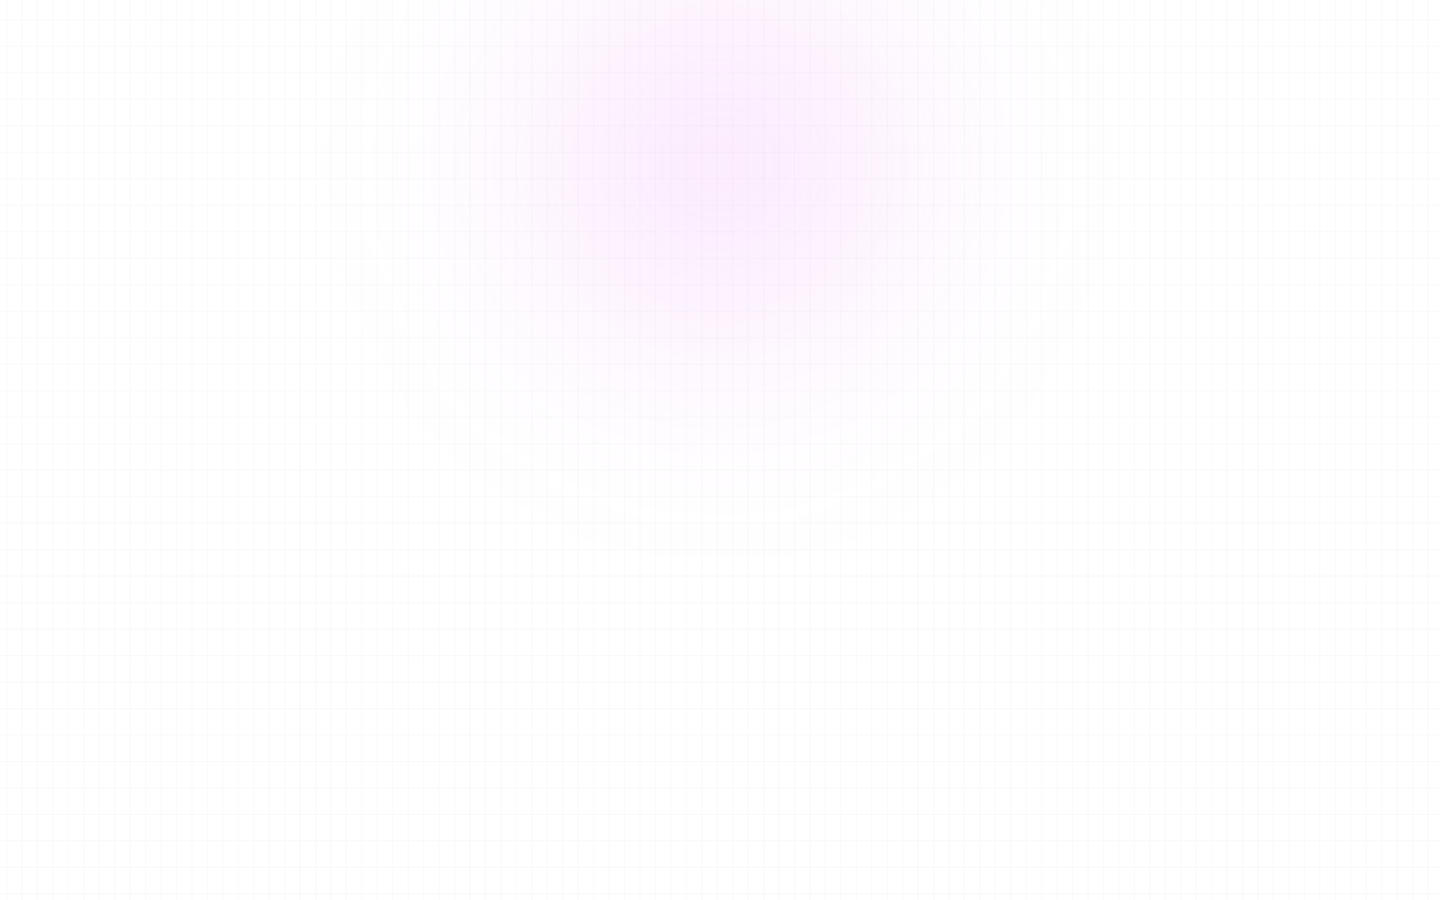
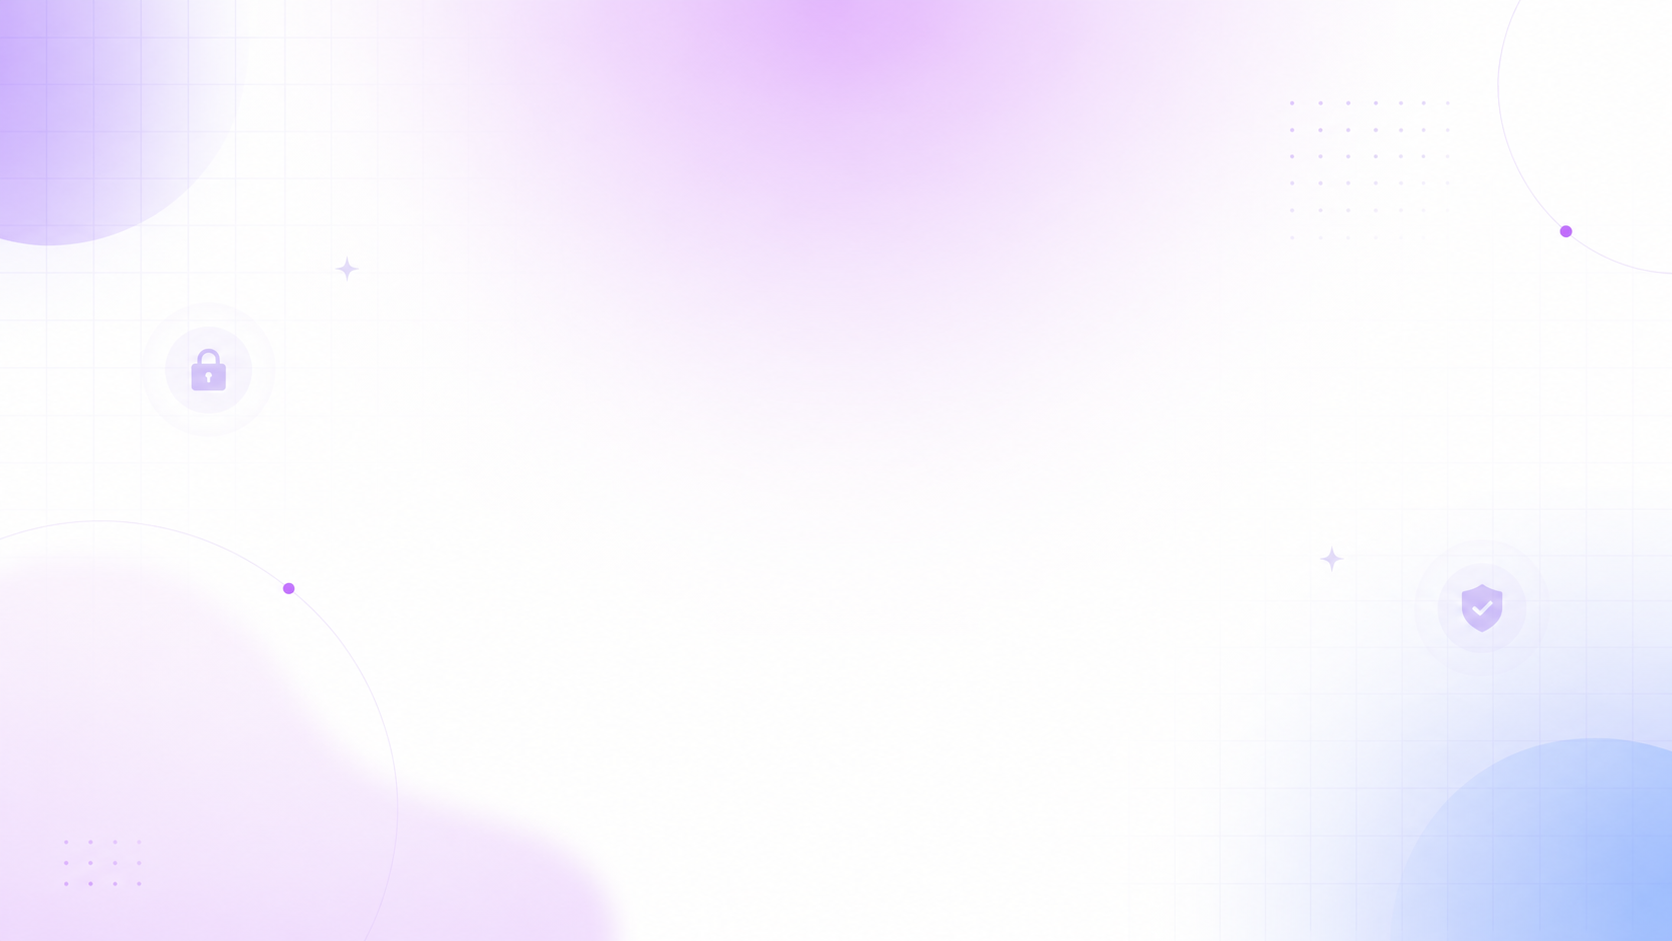
feat: implement login, signup, and home pages

diff --git a/frontend/src/pages/Login.jsx b/frontend/src/pages/Login.jsx
@@ -1,8 +1,67 @@
-import React from 'react'
+import React, { useState } from 'react'
+import { assets } from '../assets/assets';
+import { useNavigate } from 'react-router-dom';
 
 const Login = () => {
+  const navigate = useNavigate();
+  const [state, setState] = useState('Sign Up');
+  const [name , setName] = useState('');
+  const [email , setEmail] = useState('');
+  const [password , setPassword] = useState('');
   return (
-    <div>Login</div>
+    <div className='flex flex-col items-center justify-center min-h-screen px-6 sm:px-0 bg-gradient-to-br from-blue-200 to-purple-400'>
+      <img onClick={()=>navigate('/')} src={assets.logo} alt="" className='absolute l-5 sm:left-20 top-5 w-10 sm:w-15 cursor-pointer' />
+      <div className='bg-slate-900 p-10 rounded-lg shadow-lg w-full sm:w-96 text-indigo-300 text-sm'>
+        <h2 className='text-3xl font-semibold text-white text-center mb-3'>{state === 'Sign Up' ? 'Create account' : 'Login'}
+        </h2>
+        <p className='text-sm text-center mb-3'>{state === 'Sign Up' ? 'Create your account' : 'Login to your account'}</p>
+        <form>
+          {
+            state === 'Sign Up' &&(<div className='mb-4 flex items-center gap-3 w-full px-5 py-2.5 rounded-full bg-[#333A5C]'>
+            <img src={assets.person_icon} alt="" />
+            <input 
+            onChange={e =>setName(e.target.value)}
+            value={name}
+            className='bg-transparent outline-none text-white' 
+            type="text" 
+            placeholder='Full Name' 
+            required />
+          </div>)
+          }
+          <div className='mb-4 flex items-center gap-3 w-full px-5 py-2.5 rounded-full bg-[#333A5C]'>
+            <img src={assets.mail_icon} alt="" />
+            <input
+            onChange={e =>setEmail(e.target.value)}
+            value={email}
+              className='bg-transparent outline-none text-white'
+              type="email"
+              placeholder=' Email'
+              required />
+          </div>
+          <div className='mb-4 flex items-center gap-3 w-full px-5 py-2.5 rounded-full bg-[#333A5C]'>
+            <img src={assets.lock_icon} alt="" />
+            <input 
+            onChange={e =>setPassword(e.target.value)}
+            value={password}
+            className='bg-transparent outline-none text-white' 
+            type="password" 
+            placeholder=' Password' 
+            required />
+          </div>
+
+          <p onClick={()=>{navigate('/reset-password')}} className='text-center mb-4 text-indigo-500 cursor-pointer'>Forgot password?</p>
+          <button className='w-full py-2.5 rounded-full bg-gradient-to-r from-indigo-500 to-indigo-900 cursor-pointer text-white font-medium hover:'>{state}</button>
+        </form>
+        {
+          state === 'Sign Up' ? (<p className='text-gray-400 text-center , text-xs mt-4'>Already have an account?{' '}
+          <span onClick={()=>setState('Log In')} className='text-blue-400 cursor-pointer underline'>Login here</span>
+        </p>) :(<p className='text-gray-400 text-center , text-xs mt-4'>don't have an account?{' '}
+          <span onClick={()=>setState('Sign Up')} className='text-blue-400 cursor-pointer underline'>Sign up</span>
+        </p>)
+        }
+        
+      </div>
+    </div>
   )
 }
 

diff --git a/frontend/src/components/Header.jsx b/frontend/src/components/Header.jsx
@@ -1,0 +1,16 @@
+import React from 'react'
+import { assets } from '../assets/assets'
+
+const Header = () => {
+    return (
+        <div className='w-full  flex flex-col justify-center items-center mt-20 px-4 text-gray-800 text-center'><img src={assets.header_img} alt="" className='w-50 h-50 rounded-full mb-6' />
+            <h1 className='flex items-center gap-2 text-xl sm:text-3xl font-medium mb-2'>hey developer <img className="w-8 aspect-square" src={assets.hand_wave} alt="" className='w-8 aspect-square' />
+            </h1>
+            <h2 className='text-3xl sm:text-5xl font-semibold mb-4'>Welcome to the app</h2>
+            <p className='mb-8 max-w-md'>A complete authentication system built with MongoDB, Express, React, and Node.js featuring JWT authentication, email verification, password reset, and protected routes. </p>
+            <button className='border border-gray-500 px-8 py-2.5 rounded-full hover:bg-gray-100 cursor-pointer transition-all'>Get Started </button>
+        </div>
+    )
+}
+
+export default Header

diff --git a/frontend/src/components/Navbar.jsx b/frontend/src/components/Navbar.jsx
@@ -1,0 +1,18 @@
+import React from 'react'
+import { assets } from '../assets/assets'
+import { useNavigate } from 'react-router-dom'
+const Navbar = () => {
+    const navigate = useNavigate()
+
+  return (
+    
+    <div className='w-full flex justify-between p-4 sm:p-6 sm:px-24 absolute top-0'>
+        <img src={assets.logo} alt="" className='w-10 sm:w-15' />
+        <button onClick={()=>navigate('/login')}
+        className='flex items-center gap-2 border border-gray-500 rounded-full px-6 py-2 text-gray-800 hover:bg-gray-100 transition-all cursor-pointer'>Login <img src={assets.arrow_icon} alt="" /></button>
+    </div>
+    
+  )
+}
+
+export default Navbar

diff --git a/frontend/src/assets/assets.js b/frontend/src/assets/assets.js
@@ -1,0 +1,17 @@
+import arrow_icon from './arrow_icon.svg'
+import lock_icon from './lock_icon.svg'
+import logo from './logo.png'
+import mail_icon from './mail_icon.svg'
+import person_icon from './person_icon.svg'
+import hand_wave from './hand_wave.png'
+import header_img from './header_img.png'
+
+export const assets = {
+    arrow_icon,
+    lock_icon,
+    logo,
+    mail_icon,
+    person_icon,
+    hand_wave,
+    header_img
+}

diff --git a/frontend/src/pages/Home.jsx b/frontend/src/pages/Home.jsx
@@ -1,8 +1,14 @@
 import React from 'react'
+import Navbar from '../components/Navbar'
+import Header from '../components/Header'
 
 const Home = () => {
   return (
-    <div>Home</div>
+    <div className='flex flex-col items-center justify-center min-h-screen bg-[url("/bg_img.png")] bg-cover bg-center'>
+      <Navbar/>
+      <Header/>
+        
+    </div>
   )
 }
 

diff --git a/frontend/index.html b/frontend/index.html
@@ -2,7 +2,7 @@
 <html lang="en">
   <head>
     <meta charset="UTF-8" />
-    <link rel="icon" type="image/svg+xml" href="/favicon.svg" />
+    <link rel="icon" type="image/svg+xml" href="/favicon.png" />
     <meta name="viewport" content="width=device-width, initial-scale=1.0" />
     <title>mearn-auth-practice</title>
   </head>
